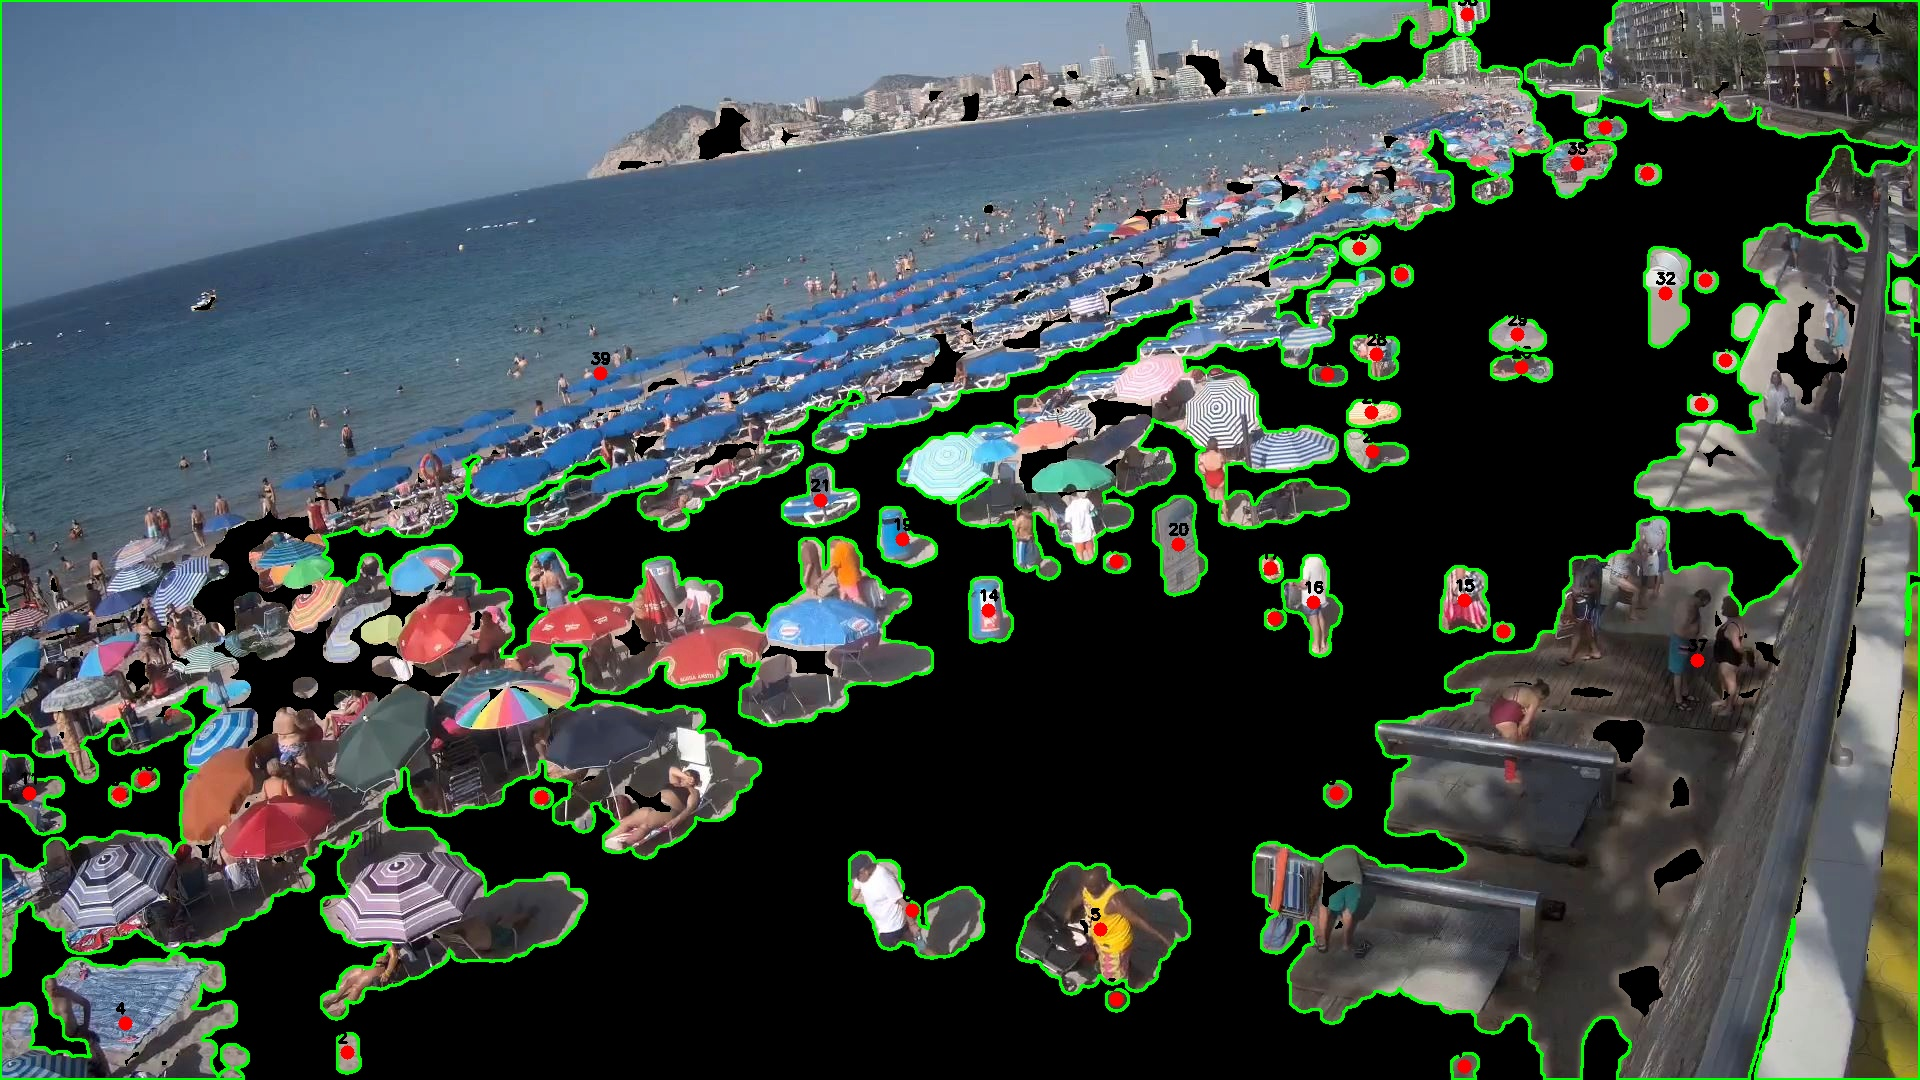
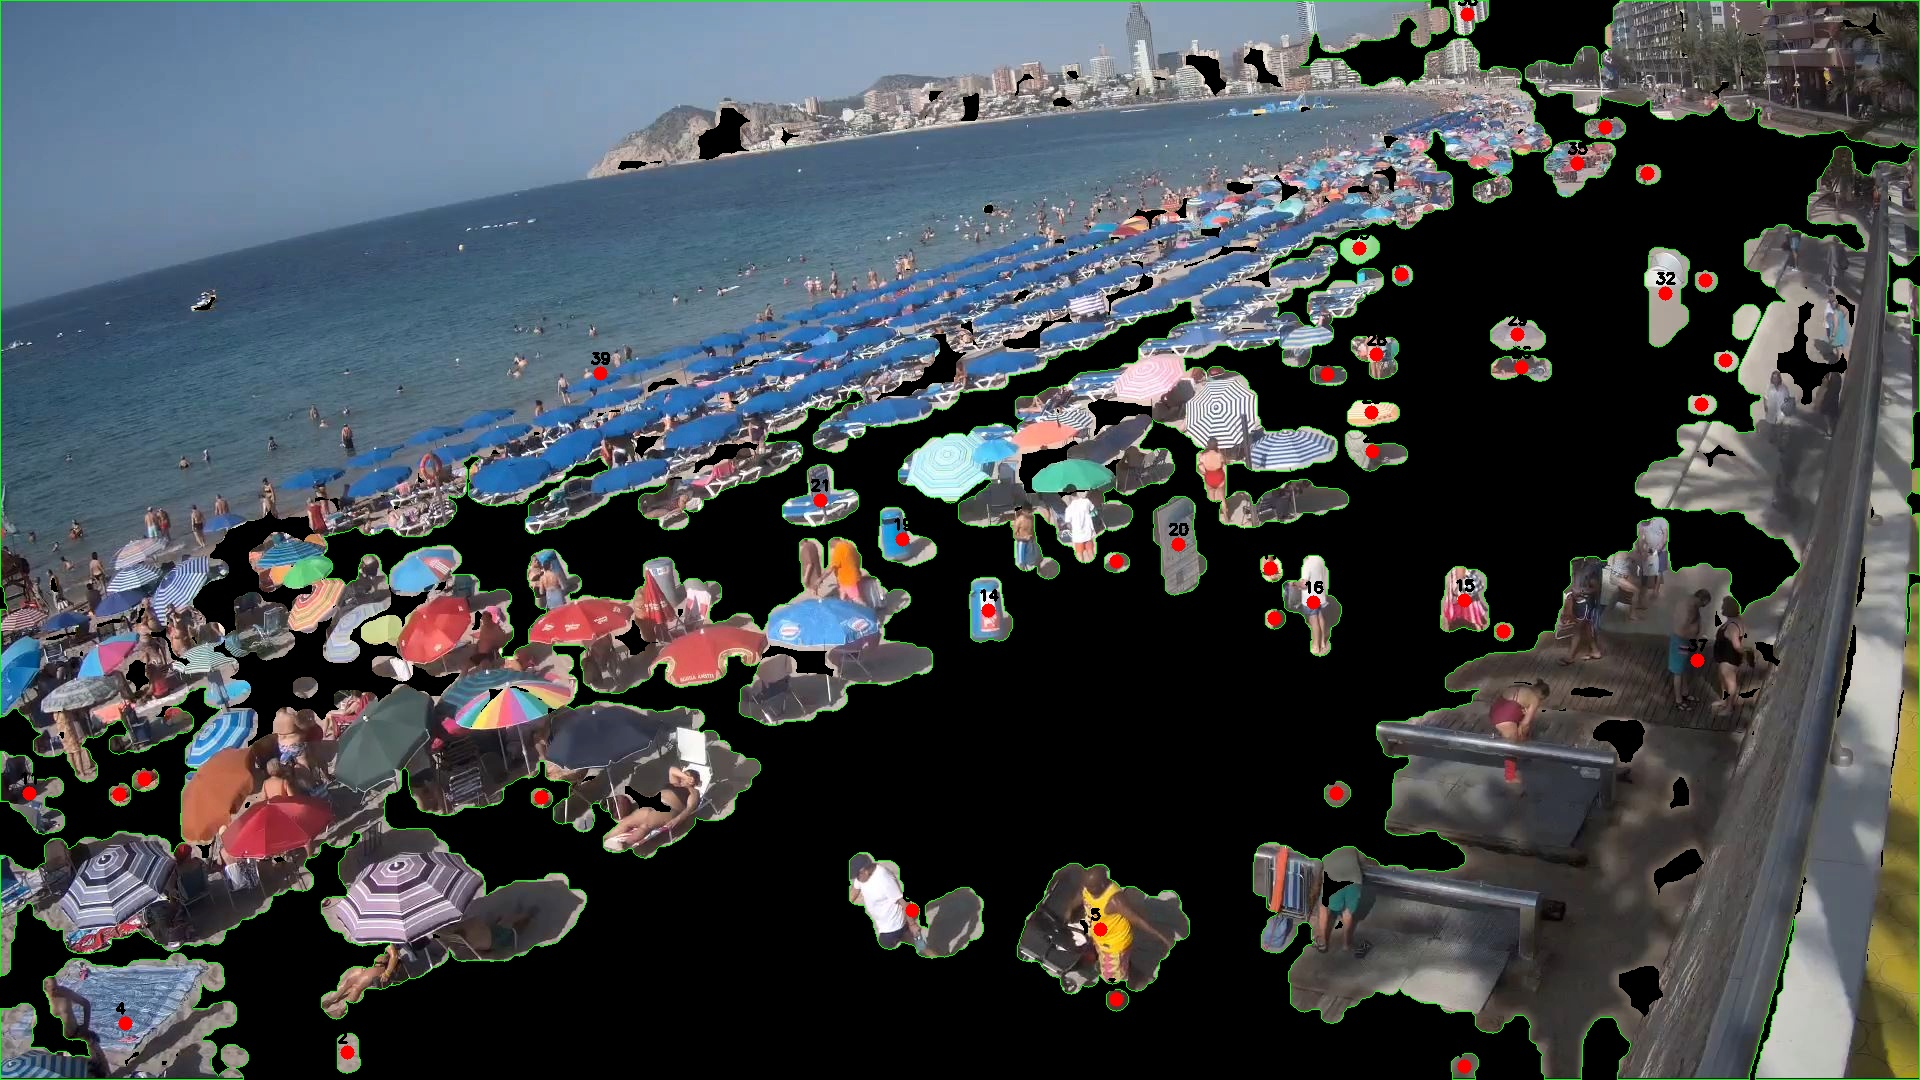
minor updates

diff --git a/substract.py b/substract.py
@@ -1,5 +1,7 @@
 import cv2
 import numpy as np
+from tkinter import filedialog
+import tkinter as tk
 
 #To get de color ranges of each image each image has lower numpy array and upper numpy array
 def get_color_ranges(file):
@@ -57,7 +59,7 @@ def main():
         if M['m00'] != 0:
             cx = int(M['m10']/M['m00'])
             cy = int(M['m01']/M['m00'])
-            cv2.drawContours(result, [i], -1, (0, 255, 0), 2)
+            cv2.drawContours(result, [i], -1, (0, 255, 0), 1)
             cv2.circle(result, (cx, cy), 7, (0, 0, 255), -1)
             value = value + 1
             cv2.putText(result, str(value), (cx - 10, cy - 10),
